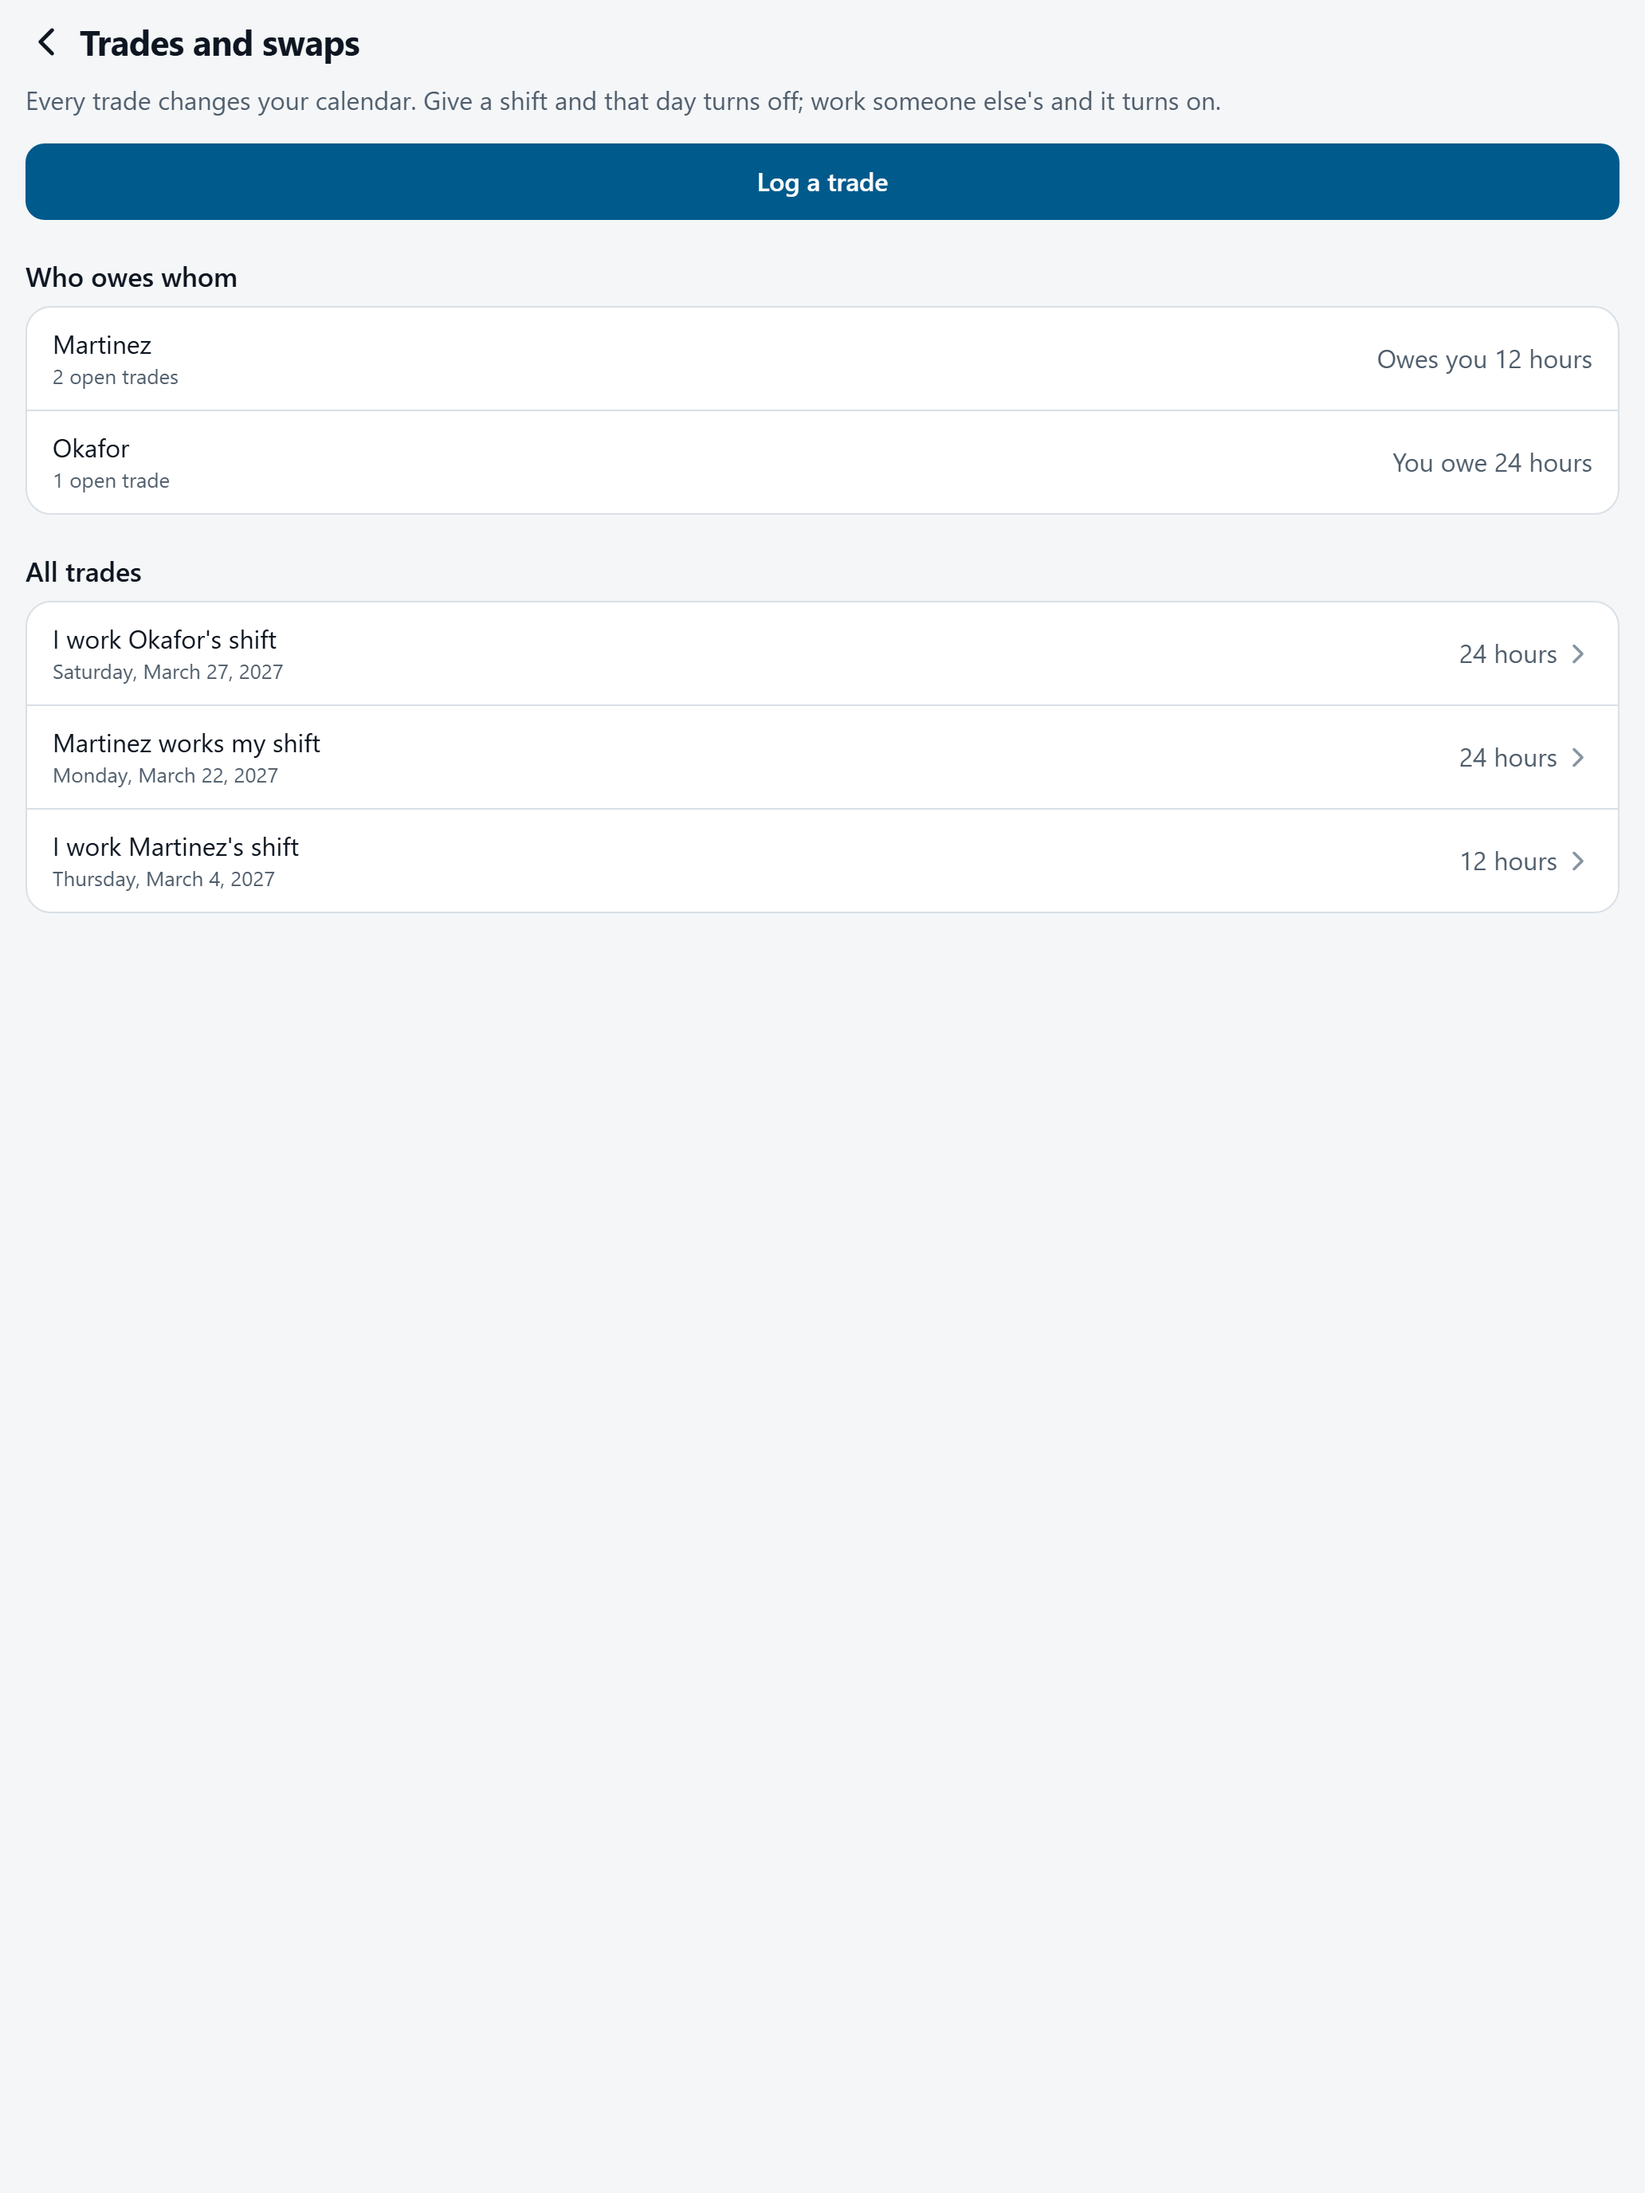
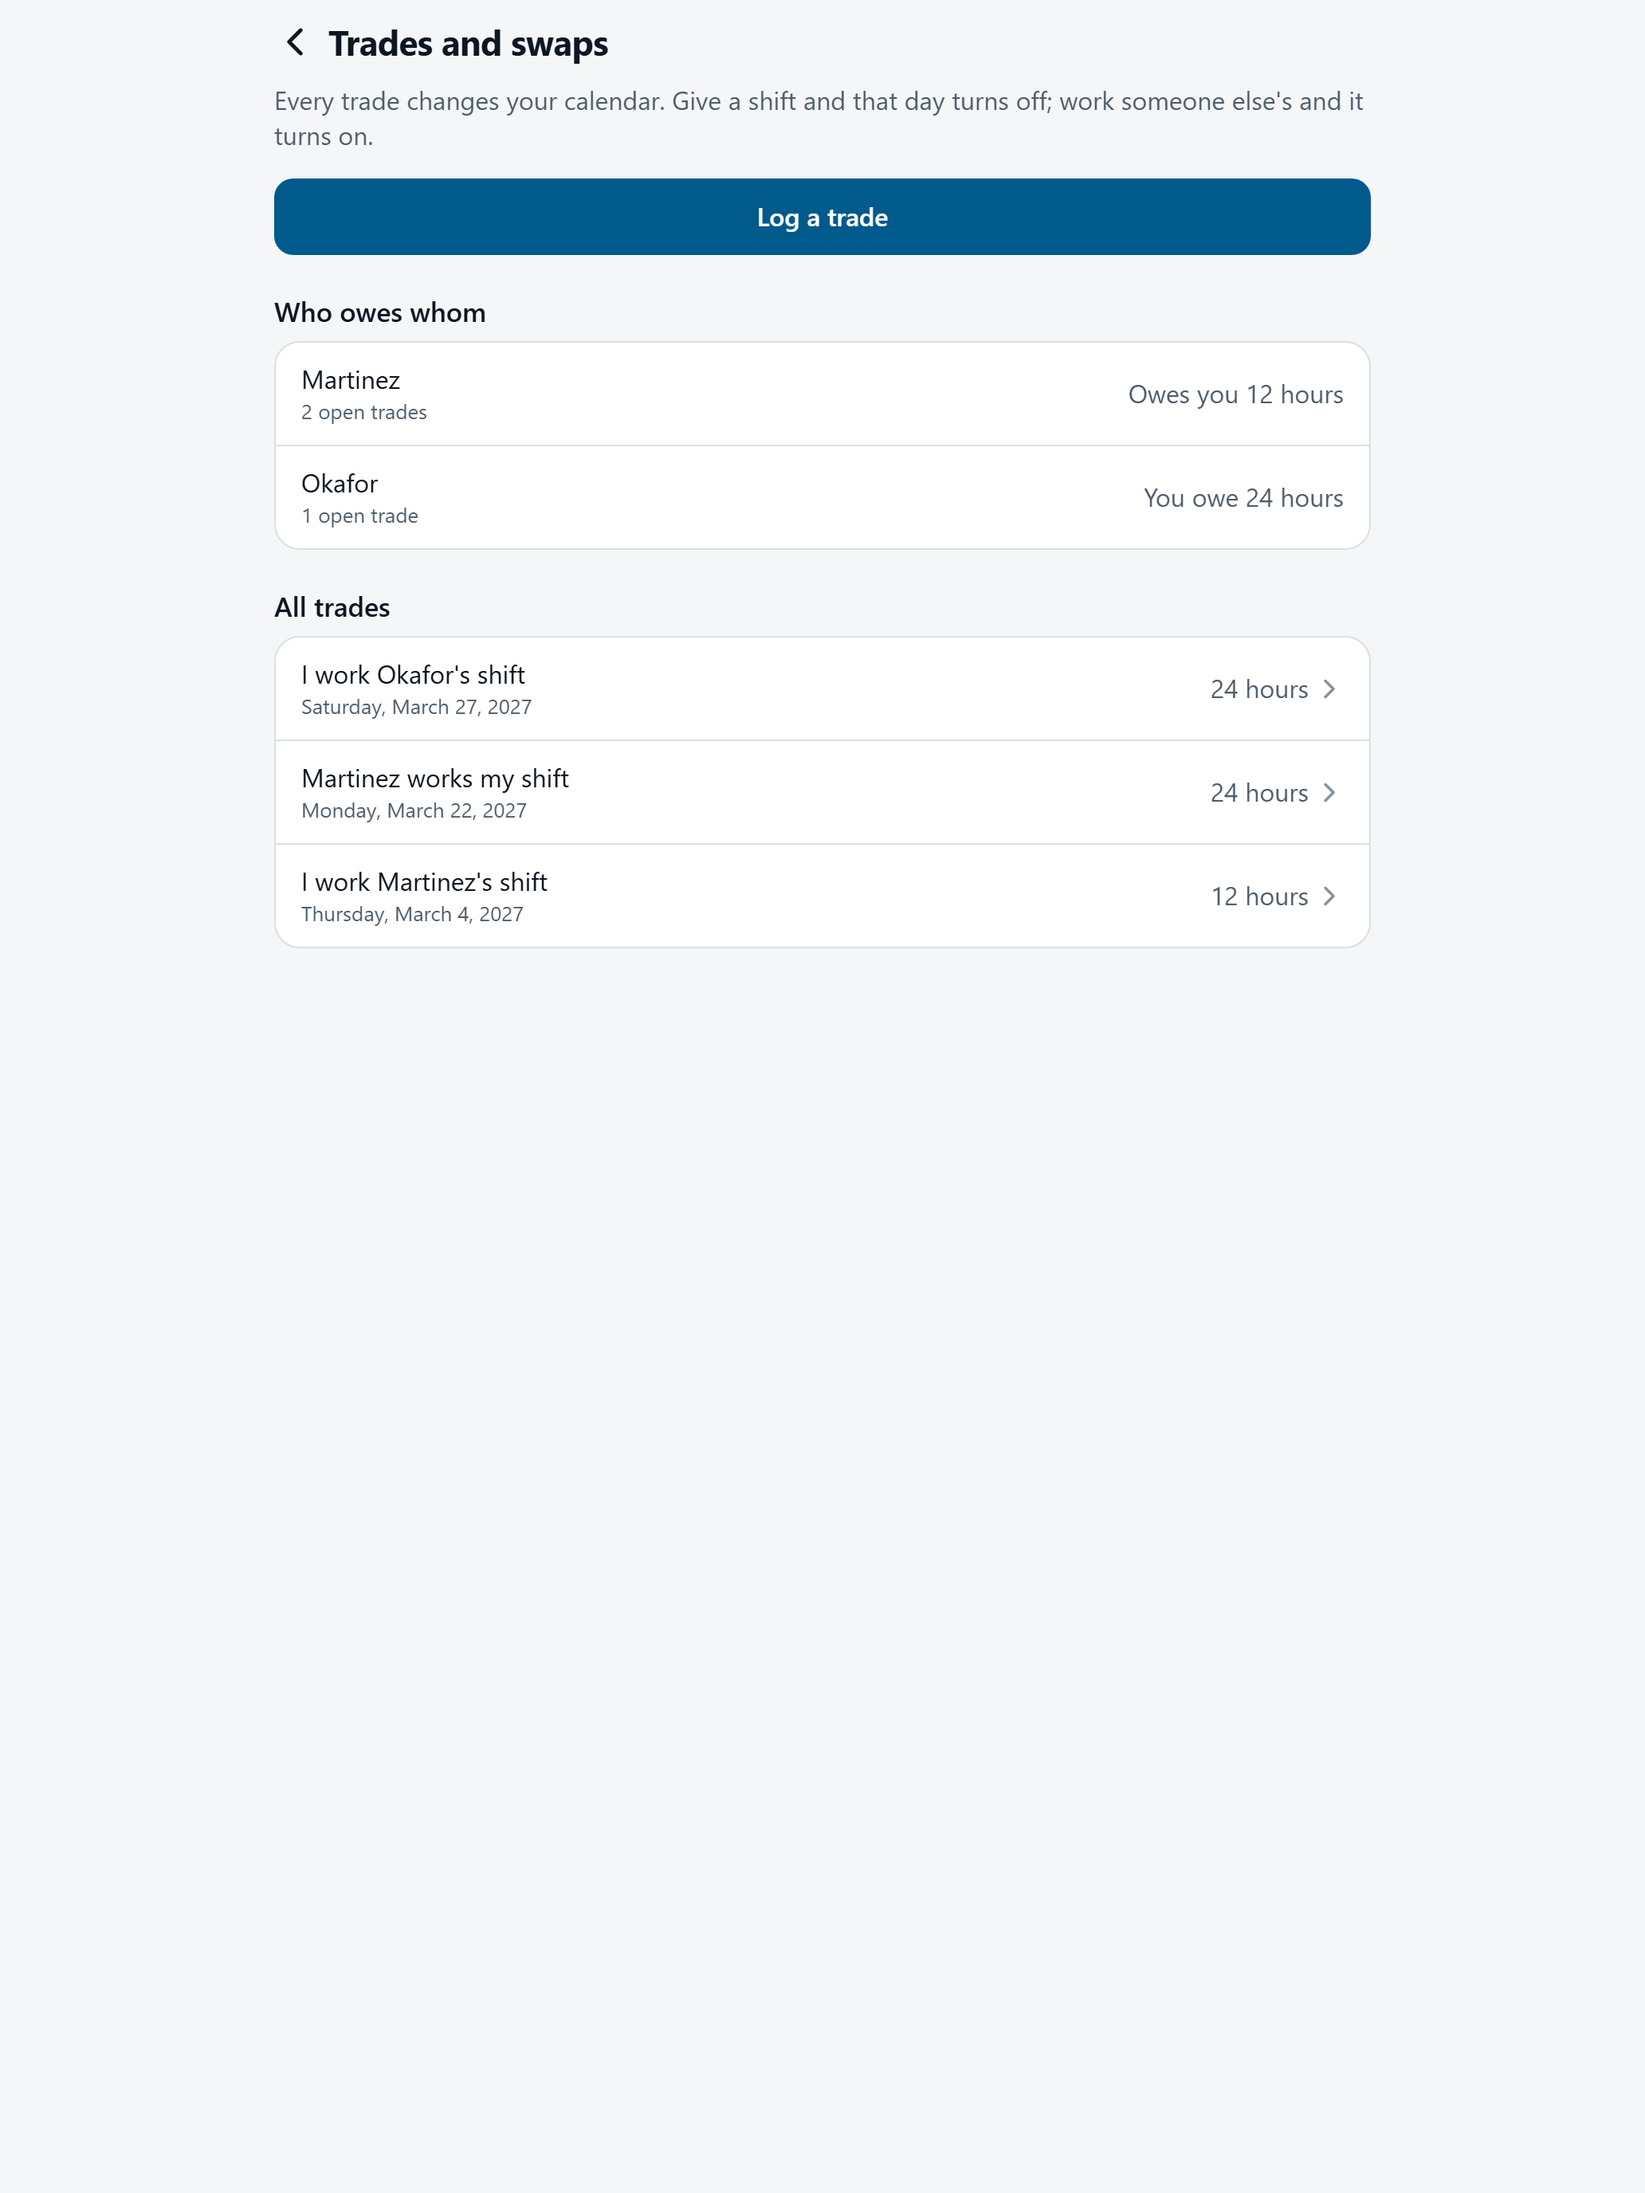
Tablet column width, regenerated store screenshots, report draft

diff --git a/src/components/Screen.tsx b/src/components/Screen.tsx
@@ -33,20 +33,20 @@ export function Screen({
   const body = scroll ? (
     <ScrollView
       style={styles.flex}
-      contentContainerStyle={[padding, { paddingBottom: spacing.xxl }, contentStyle]}
+      contentContainerStyle={[padding, styles.column, { paddingBottom: spacing.xxl }, contentStyle]}
       keyboardShouldPersistTaps="handled"
       showsVerticalScrollIndicator={false}
     >
       {children}
     </ScrollView>
   ) : (
-    <View style={[styles.flex, padding, contentStyle]}>{children}</View>
+    <View style={[styles.flex, padding, styles.column, contentStyle]}>{children}</View>
   );
   return (
     <SafeAreaView edges={edges} style={[styles.flex, { backgroundColor: colors.background }, style]} testID={testID}>
       <KeyboardAvoidingView style={styles.flex} behavior={Platform.OS === 'ios' ? 'padding' : undefined}>
         {body}
-        {footer}
+        {footer ? <View style={styles.column}>{footer}</View> : null}
       </KeyboardAvoidingView>
     </SafeAreaView>
   );
@@ -54,4 +54,6 @@ export function Screen({
 
 const styles = StyleSheet.create({
   flex: { flex: 1 },
+  // On tablets keep a readable phone like column instead of stretching edge to edge.
+  column: { width: '100%', maxWidth: 720, alignSelf: 'center' },
 });

diff --git a/REPORT.md b/REPORT.md
@@ -1,0 +1,72 @@
+# Rotawise: final report
+
+Rotawise (working name Platoon, which is taken on both stores) is a shift calendar for
+firefighters, EMS, police and rotating shift workers. Expo SDK 58, TypeScript strict,
+SQLite storage, fully offline, no account, no ads, no analytics.
+
+## What works and how it was tested
+
+| Area | Works | How it was tested on this PC |
+|---|---|---|
+| Rotation math | Every preset (24/48, 48/96, 24/72, Kelly, Pitman, DuPont, 2 2 3, 4 on 4 off, 3 twelves), custom patterns, platoons A to D, 24 hour tours as one shift over two dates, Kelly days with interval and phase, trades, extra shifts and leave on top of the base, pay periods and gross pay | 124 Jest tests: every preset checked day by day against an independent date oracle for 2024 to 2030 (two leap years), one platoon per slot every day, average hours per week, all 2027 and 2028 clock changes in New York, London and Sydney, year ends, tours crossing midnight and New Year, Kelly spacing at 7, 9, 10 and 13, trades overriding Kelly days |
+| Free tier | Setup in one screen (three taps), Today card (ON or OFF, next shift in X days), next 7 days, month view (my platoon or all, letters on every color), year view, dark mode, settings | Jest router tests drive onboarding and every screen; Playwright on the exported web build drives onboarding, month, day details, year, widget preview, reload persistence, dark mode |
+| Pro | Trades ledger that changes the calendar, overtime totals, pay periods and estimated gross, leave balances, calendar export, more rotations with overlays, year PDF and image, themes and widget colors, one time purchase with restore | Jest router tests: Pro gate opens the purchase screen, trades update the month view, pay estimate (checked to the cent), balances, adding a second rotation |
+| No hyphens in copy | All user facing text | A test renders all 17 screens and fails on any hyphen; the listing checker does the same for store text |
+| Color blind safety | Okabe and Ito colors, letter always shown, 4.5:1 contrast | Contrast test on every platoon color |
+| Storage | SQLite on phones, browser storage on web | Store tests: save, restart, read back, corrupt data, erase all |
+| Android widgets | Today (small) and Next 7 days (medium), light and dark, redraw every 30 minutes and on every change | Jest builds the real native widget tree and checks every label; task handler and refresh tested |
+| iOS widgets | Same two widgets in SwiftUI, timeline entries at every midnight and every shift change | Swift cannot run on Windows. Tests check the Swift reads the same App Group key and fields and uses the same strings and colors as the tested TypeScript rules. Compile result: see EAS builds below |
+| Landing site | Home, 9 rotation template pages with 2027 calendars per platoon, 10 department pages from `site/departments.csv`, privacy, support, sitemap | Built with `npm run site` and checked in the browser; unverified pages carry a warning and are hidden from search engines |
+| Store assets | Icon, Android icon layers, splash, feature graphic, 54 screenshots in 6 store sizes, listing text, keywords | Listing checker (limits and hyphens), screenshots reviewed |
+
+## EAS builds
+
+BUILD_RESULTS
+
+## Not tested, and why
+
+- **Widgets on a device.** There is no Mac, iOS simulator or Android emulator here. The brief
+  asked for simulator screenshots of the widgets; that is not possible on this PC. The iOS
+  widget has to be checked on your iPhone through TestFlight (RELEASE_STEPS.md step 4). The
+  Android widget is checked by its build and unit tests only. I have not seen either widget
+  render on a real home screen, so I am not claiming they do.
+- **Android emulator.** It needs Android Studio (about 4 GB) and the Windows Hypervisor
+  Platform feature. This PC runs a hypervisor, but checking whether that feature is on needs
+  administrator rights. If you want it, say so: you would turn the feature on in Windows and
+  approve the download, then I can install it and take widget screenshots.
+- **Real purchases.** Buying and restoring Pro need the RevenueCat project and keys
+  (RELEASE_STEPS.md step 3) and a TestFlight sandbox account. The purchase code is the same
+  code Bowerly ships with.
+- **Calendar export, PDF and image sharing** use device APIs that do not exist on the web;
+  they are covered by mocked tests only until TestFlight.
+
+## Known gaps and honest risks
+
+1. **Privacy label.** The app collects nothing, but RevenueCat sees an anonymous ID and the
+   purchase receipt. Apple may expect "Purchase History, not linked". `STORE_LISTING.md`
+   explains the two choices. Truly "Data Not Collected" means dropping RevenueCat for direct
+   StoreKit and Play Billing; I can do that if you prefer.
+2. **iOS widget compile risk** is limited to the Swift files; see the EAS result above.
+3. **Department pages are examples.** All 10 rows are marked UNVERIFIED with placeholder
+   dates. They show a warning banner and are excluded from search until you confirm them.
+4. **Name.** Rotawise had no exact match on either store on 2 Nov 2026. A trademark search
+   was not done.
+5. **Google Play** needs a $25 account and an Android phone for verification, so Android is
+   built but not listed.
+6. **Kelly day defaults.** Departments run Kelly days very differently. The app lets users
+   set the interval and pick their next Kelly day, but the Kelly preset's default of every
+   7th tour is a guess.
+7. **eas-cli** on this PC is 25.3.0 (27.2.0 is out). Builds work; updating is optional.
+
+## How to run things
+
+```
+npm run verify          # tsc, eslint, Jest
+npm run export:web      # web build into dist/
+npm run test:e2e        # Playwright smoke test on dist/
+npm run site            # landing site into site/dist
+npm run site:serve      # preview it at http://127.0.0.1:4192/
+npm run assets          # icons, splash, widget previews, feature graphic
+npm run screenshots     # store screenshots from dist/
+node scripts/check-listing.mjs
+```

diff --git a/PLAN.md b/PLAN.md
@@ -51,3 +51,17 @@ Fully offline. No account. No ads, analytics or tracking.
 - Storage: expo-sqlite on iOS and Android through one small repository interface;
   the web build uses localStorage behind the same interface so tests and the web
   smoke test exercise the same screens.
+
+## Status (2 Nov 2026)
+
+| # | Milestone | Status |
+|---|-----------|--------|
+| M0 | Name and plan | Done. Platoon taken on both stores; user picked Rotawise |
+| M1 | Skeleton | Done |
+| M2 | Rotation math | Done. 124 rotation tests (every preset, leap years, clock changes, year ends, midnight tours, Kelly intervals and phase, trades and leave over the base) |
+| M3 | Free tier | Done. Tested in Jest router flows and the Playwright web smoke test |
+| M4 | Pro | Done in code and tests. Real purchases need the RevenueCat keys (RELEASE_STEPS.md step 3) |
+| M5 | Widgets | Code done; Android widget trees and the shared rules are unit tested. iOS widget compiles only on EAS and can only be seen on an iPhone via TestFlight |
+| M6 | Quality gate | tsc (app and site), eslint, 180 Jest tests, 3 Playwright tests all pass |
+| M7 | Landing site | Done. 22 pages; npm run site, then npm run site:serve |
+| M8 | Store and release | Icon, feature graphic, screenshots, STORE_LISTING.md, RELEASE_STEPS.md done. EAS builds: see REPORT.md |
